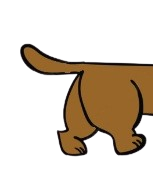
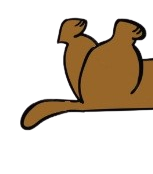
scroll

diff --git a/style.css b/style.css
@@ -699,7 +699,7 @@ li.dropdown {
     position: fixed;
     right: 0;
     top: 0;
-    width: 60px;
+    width: 45px;
     height: 100vh;
     z-index: 9999;
     pointer-events: none;
@@ -709,26 +709,29 @@ li.dropdown {
 }
 
 #dachshund-rear {
-    width: 56px;
-    height: 50px;
+    width: 55px;
+    height: 55px;
     transform: rotate(90deg);
     flex-shrink: 0;
+    margin-right: 3px;
 }
 
 #dachshund-body {
-    width: 14px;
+    width: 17px;
     background-color: #986629;
     height: 0%;
     position: relative;
     transition: height 0.1s ease-out;
+    border-left: 1px solid #0b0808;
+    border-right: 1px solid #0b0808;
 }
 
 #dachshund-head {
-    width: 55px;
-    height: 60px;
+    width: 56px;
+    height: 61px;
     position: absolute;
     bottom: -40px;
-    left: -20px;
+    left: -21px;
     transform: rotate(90deg);
 }
 